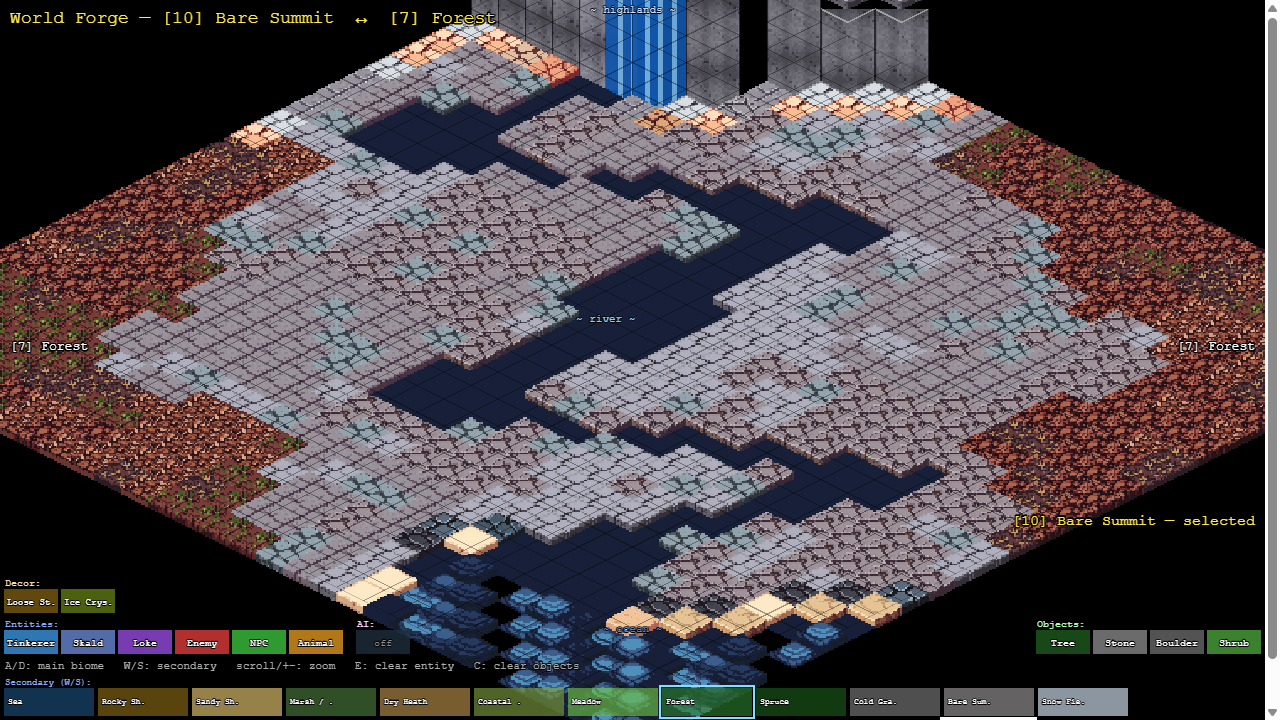
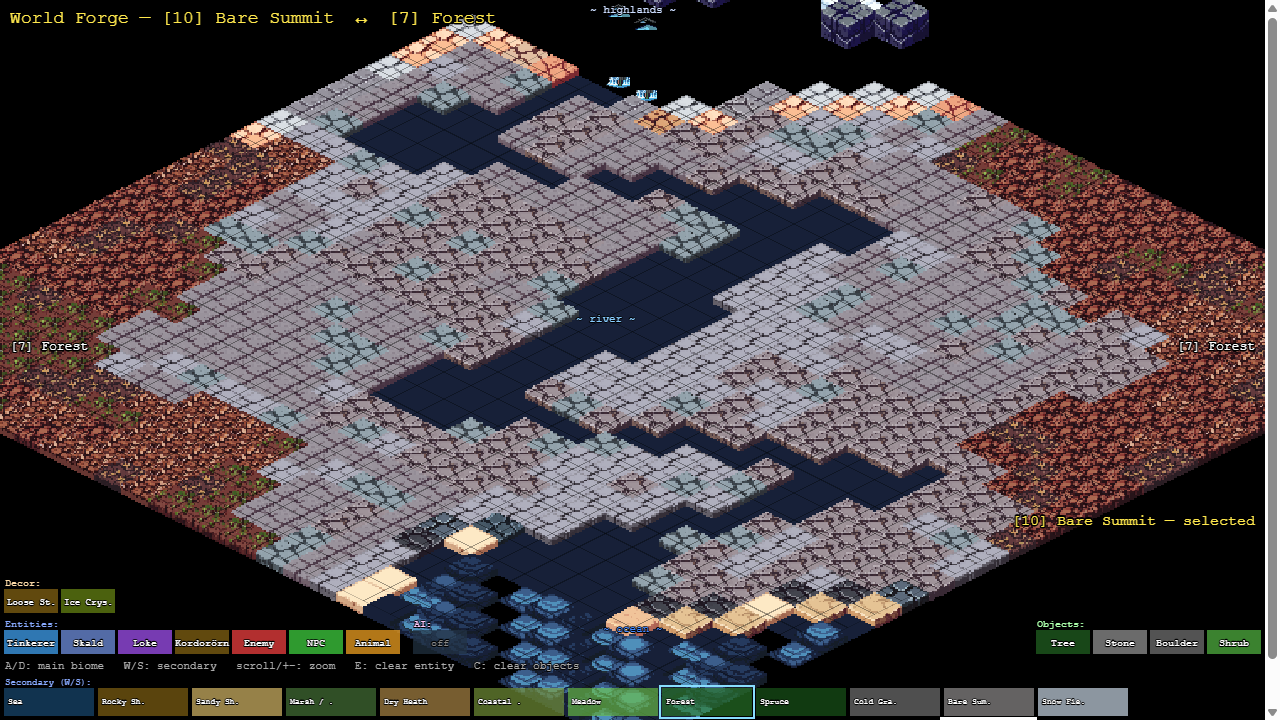
feat(world-forge): replace flat cliff strips with 3D isometric block tiles
Replace the tiled strip textures (cliff-south / cliff-east) in WorldForge
with PixelLab-generated 32×32 isometric block tiles that show a proper 3D
cube — top face cap + visible south/east wall faces. This matches the shape
expected by an isometric perspective and eliminates the flat-band look.

Four material tiles generated (create_isometric_tile, tile_shape:"block"):
- earthy_0  — brown soil with grass cap (meadow / forest / heath biomes)
- snow_0    — grey rock with snow cap   (snow field biome)
- peat_0    — dark boggy earth          (marsh biome)
- stone_iso_0 — dark granite block      (cold granite / bare summit / rocky shore)

Biome resolution in WorldForge mirrors the floor-tile logic: elevation zones
(elevDist) take priority, then ocean bands, then the active landBiome. The
cliff block replaces both the old strip face AND the floor tile for that cell,
so the top face of the block serves as the floor surface. Waterfall strips are
still layered on top for river cliff tiles.

Changed region(s): [[0.3438, 0.0, 0.75, 0.1528], [0.125, 0.8556, 0.375, 0.9167]]

diff --git a/src/scenes/WorldForgeScene.ts b/src/scenes/WorldForgeScene.ts
@@ -47,6 +47,20 @@ const CUSTOM_TILE_PACKS: Record<number, string> = {
   11: 'snow-field',
 };
 
+/**
+ * Maps biome index → isometric cliff block tile key.
+ * Elevation zones take priority (snow/stone highlands), lowlands fall back to earthy.
+ */
+const CLIFF_MAT: Record<number, string> = {
+  1:  'cliff-stone',   // rocky shore
+  3:  'cliff-peat',    // marsh
+  9:  'cliff-stone',   // cold granite
+  10: 'cliff-stone',   // bare summit
+  11: 'cliff-snow',    // snow field
+};
+const cliffKeyForBiome = (biomeIdx: number): string =>
+  CLIFF_MAT[biomeIdx] ?? 'cliff-earthy';
+
 const ENTITY_TYPES = [
   { key: 'tinkerer',            color: 0x44aaff, label: 'Tinkerer',   atlasKey: 'tinkerer'            as string | null },
   { key: 'skald',               color: 0x7799ee, label: 'Skald',      atlasKey: 'skald'               as string | null },
@@ -151,12 +165,17 @@ export class WorldForgeScene extends Phaser.Scene {
     this.load.spritesheet('iso-tiles',
       '/assets/packs/isometric tileset/spritesheet.png',
       { frameWidth: 32, frameHeight: 32 });
-    // Cliff strip tiles — south face, east face, and 3-section waterfall.
-    this.load.image('cliff-south',   '/assets/packs/cliff-strips/cliff-south.png');
-    this.load.image('cliff-east',    '/assets/packs/cliff-strips/cliff-east.png');
+    // Cliff tiles — waterfall sections + PixelLab isometric block tiles per material.
+    // Rock face strips (cliff-south/cliff-east) replaced by the 3D block tiles below.
     this.load.image('cliff-wf-top',  '/assets/packs/cliff-strips/cliff-wf-top.png');
     this.load.image('cliff-wf-mid',  '/assets/packs/cliff-strips/cliff-wf-mid.png');
     this.load.image('cliff-wf-bot',  '/assets/packs/cliff-strips/cliff-wf-bot.png');
+    // PixelLab-generated isometric cliff block tiles (32×32, tile_shape:"block").
+    // Each shows the full 3D cube: top face + south/east side faces.
+    this.load.image('cliff-earthy', '/assets/packs/cliff-iso-gen/earthy_0.png');
+    this.load.image('cliff-snow',   '/assets/packs/cliff-iso-gen/snow_0.png');
+    this.load.image('cliff-peat',   '/assets/packs/cliff-iso-gen/peat_0.png');
+    this.load.image('cliff-stone',  '/assets/packs/cliff-iso-gen/stone_iso_0.png');
 
     // Custom floor tiles — 4 variants per biome replacing the cluttered stock spritesheet.
     for (const packName of Object.values(CUSTOM_TILE_PACKS)) {
@@ -468,7 +487,7 @@ export class WorldForgeScene extends Phaser.Scene {
         const floorDisplayH = ISO_TILE_NATIVE_SIZE * this.ISO_SCALE;
         const southRimY     = Math.round(posY + floorDisplayH);
         const hh            = this.ISO_H / 2;
-        const eastWestRimY  = southRimY - hh;
+        void (southRimY - hh); // eastWestRimY — kept for when per-face strip cliffs return
 
         const cliffTint = elevDist > 1 ? 0xe0e4ee
                         : elevDist === 1 ? 0xc4c8cc
@@ -540,34 +559,44 @@ export class WorldForgeScene extends Phaser.Scene {
           }
         };
 
-        if (tileElev > 0 && ty + 1 < G) {
-          const elevS = getElev(tx, ty + 1);
-          if (tileElev > elevS) {
-            const isWF = showRiver && Math.abs(tx - riverCenter(diag)) <= 1;
-            drawCliffFace(x, southRimY, tileElev - elevS, isWF ? 'wf' : 'south', 0);
-          }
-        }
+        // Detect cliff edges — any direction where this tile drops to a lower neighbour.
+        const southDrop = tileElev > 0 && ty + 1 < G ? tileElev - getElev(tx, ty + 1) : 0;
+        const eastDrop  = tileElev > 0 && tx + 1 < G ? tileElev - getElev(tx + 1, ty) : 0;
+        const westDrop  = tileElev > 0 && tx > 0     ? tileElev - getElev(tx - 1, ty) : 0;
+        const isWF      = showRiver && Math.abs(tx - riverCenter(diag)) <= 1;
+        const hasCliff  = southDrop > 0 || eastDrop > 0 || westDrop > 0;
 
-        if (tileElev > 0 && tx + 1 < G) {
-          const elevE = getElev(tx + 1, ty);
-          if (tileElev > elevE) {
-            drawCliffFace(x + this.ISO_W / 2, eastWestRimY, tileElev - elevE, 'east', hh);
-          }
-        }
+        if (hasCliff) {
+          // Replace flat strip faces + separate floor tile with a single isometric block tile.
+          // The block tile includes the top face (grass/stone/snow cap) and the visible cliff
+          // face(s) below it, giving proper 3D depth.
+          //
+          // Biome resolution mirrors the floor-tile logic above: elevation zones take priority
+          // over landBiome so the cliff material matches the floor material exactly.
+          const cliffBiomeIdx = elevDist > 1   ? 11
+                              : elevDist === 1  ? 10
+                              : elevDist === 0  ? 9
+                              : oceanDist === 0 ? 2   // sandy shore → earthy fallback
+                              : oceanDist < 0   ? 1   // rocky shore
+                              : landBiome;
+          const cliffKey = cliffKeyForBiome(cliffBiomeIdx);
+          const cliffImg = this.add.image(x, posY, cliffKey)
+            .setScale(this.ISO_SCALE).setOrigin(0.5, 0).setDepth(0);
+          this.tileImages.push(cliffImg);
 
-        if (tileElev > 0 && tx > 0) {
-          const elevW = getElev(tx - 1, ty);
-          if (tileElev > elevW) {
-            drawCliffFace(x - this.ISO_W / 2, eastWestRimY, tileElev - elevW, 'east', hh);
+          // Waterfall strips rendered on top for river cliff tiles.
+          if (southDrop > 0 && isWF) {
+            drawCliffFace(x, southRimY, southDrop, 'wf', 0);
           }
+        } else {
+          // No cliff — draw regular floor tile.
+          const img = customPack
+            ? this.add.image(x, posY, `${customPack}-${tileHash}`)
+                .setScale(this.ISO_SCALE).setOrigin(0.5, 0).setDepth(0)
+            : this.add.image(x, posY, 'iso-tiles', frame)
+                .setScale(this.ISO_SCALE).setOrigin(0.5, 0).setDepth(0);
+          this.tileImages.push(img);
         }
-
-        const img = customPack
-          ? this.add.image(x, posY, `${customPack}-${tileHash}`)
-              .setScale(this.ISO_SCALE).setOrigin(0.5, 0).setDepth(0)
-          : this.add.image(x, posY, 'iso-tiles', frame)
-              .setScale(this.ISO_SCALE).setOrigin(0.5, 0).setDepth(0);
-        this.tileImages.push(img);
       }
     }
 
